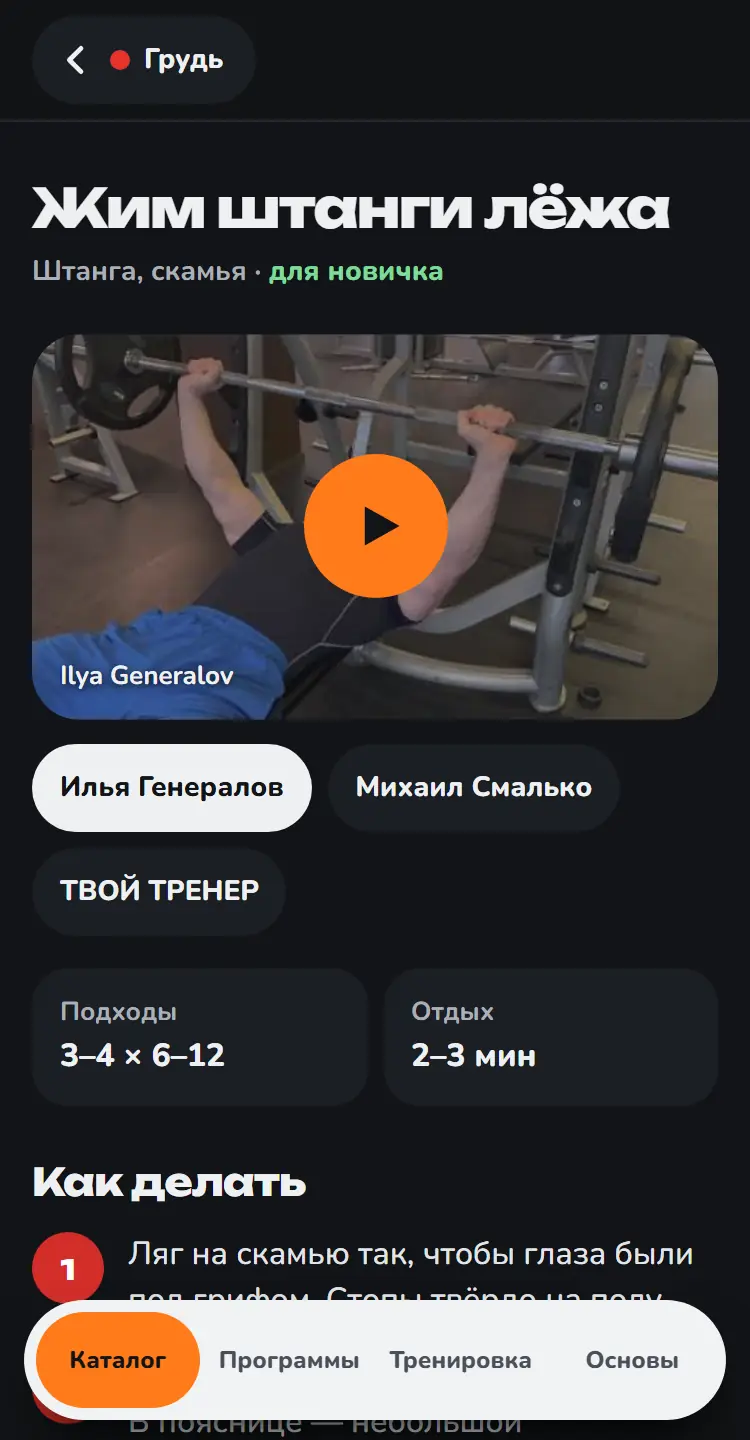
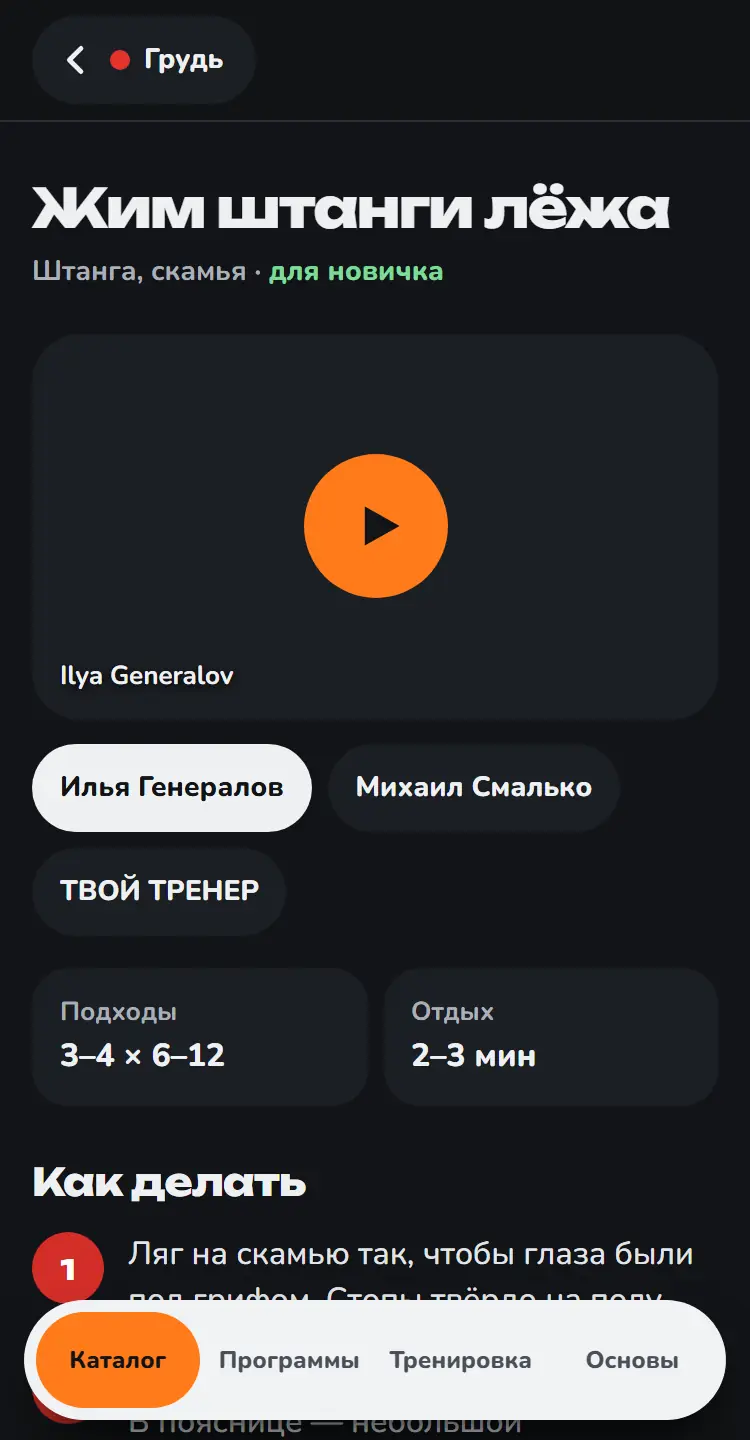
Инструкция: правки после ревью, скриншот упражнения без чужого кадра

Changed region(s): [[0.0307, 0.2188, 0.9813, 0.5]]

diff --git a/scripts/guide_screenshots.py b/scripts/guide_screenshots.py
@@ -41,6 +41,7 @@ OLDER_START = """() => new Promise((ok, no) => {
 # Для снимков: сообщение автоматического браузера людям на телефоне не покажется, меню заслоняет отдельные блоки.
 HIDE_NO_WAKE = "[data-testid=no-wake] { display: none }"
 HIDE_MENU = ".tabbar { display: none }"
+HIDE_PREVIEW = "[data-testid=video] img { display: none }"  # превью чужого ролика заблокировано: без значка битой картинки
 
 
 def save(png, name):
@@ -68,6 +69,7 @@ def catalog(page):
     page.goto("myshcy/grud/")
     shot(page, "group")
     page.goto("uprazhneniya/zhim-shtangi-lezha/")
+    page.add_style_tag(content=HIDE_PREVIEW)
     shot(page, "exercise")
     page.goto("programmy/")
     shot(page, "programs")
@@ -99,7 +101,7 @@ def workout(page):
 
     page.evaluate(OLDER_START)
     summary, rest = page.get_by_test_id("summary"), page.get_by_test_id("rest-skip")
-    page.get_by_test_id("rest-skip").click()
+    rest.click()
     while not summary.is_visible():
         page.get_by_test_id("set-done").click()
         page.wait_for_timeout(500)  # кнопка гаснет после нажатия: защита от двойного касания
@@ -127,6 +129,7 @@ def main():
             viewport={"width": WIDTH, "height": HEIGHT}, device_scale_factor=SCALE,
             locale="ru-RU", service_workers="block", reduced_motion="reduce",
         )
+        context.route("**://i.ytimg.com/**", lambda route: route.abort())  # чужой кадр в наш репозиторий не кладём
         page = context.new_page()
         catalog(page)
         workout(page)

diff --git a/AGENTS.md b/AGENTS.md
@@ -33,14 +33,15 @@
 - ревью изменений — как обычно (`/check`, ревьюер);
 - проверка — сборка без ошибок и скриншоты на 375 / 768 / 1280; тяжёлых автотестов и проверок в CI нет;
 - автотесты (pytest + Playwright) в CI подключаем, когда продукт будет готов (решение Вадима 31.10.2026 отменило
-  «автотесты дневника останавливают выкладку»). Пока `tests/` — только проверки дневника, запускаем руками;
+  «автотесты дневника останавливают выкладку»). Пока `tests/` запускаем руками;
 - выкладка: коммит в `main` → push → GitHub Actions сам собирает и выкладывает на GitHub Pages.
 
 ## Команды
 - `npm install` — поставить зависимости (Node 22).
 - `npm run dev` — разработка, http://localhost:4321/trenirovki/
 - `npm run build` — сборка в `dist/`.
-- `.venv\Scripts\python -m pytest` — проверки дневника, идут по `dist/`: сначала сборка. Первый раз:
+- `.venv\Scripts\python scripts\guide_screenshots.py` — переснять экраны для «Как пользоваться» (`public/img/guide/`): сначала сборка, потом ещё одна сборка. Изменился размер снимка — поправить `width` и `height` на странице.
+- `.venv\Scripts\python -m pytest` — проверки, идут по `dist/`: сначала сборка. Первый раз:
   `python -m venv .venv`, `.venv\Scripts\pip install -r tests/requirements.txt`, `.venv\Scripts\playwright install chromium`.
 
 ## Стек
